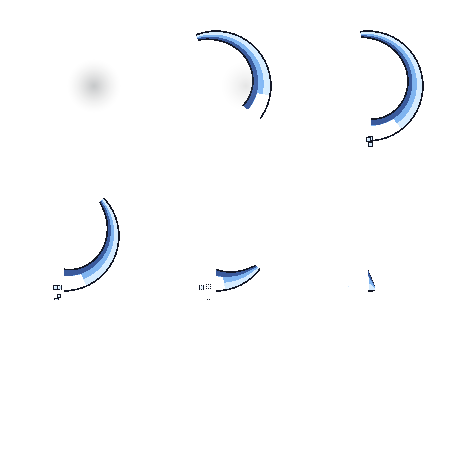
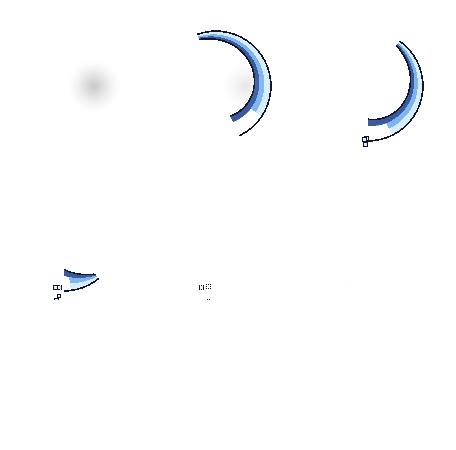
Chop first, then send the rift from where the blade lands (Claude r42)
User request: the cut should come down fast and the travelling effect should start from the
landing point. The slash crescent now finishes in 0.2 s, the rift starts 0.1 s in and one step
ahead of the swordsman towards the target. The review screen samples 0.2 s so both show.

diff --git a/Tools/PixelFX/fx/melee/eb-slash.js b/Tools/PixelFX/fx/melee/eb-slash.js
@@ -79,7 +79,7 @@ export function draw(p, t, o) {
     return;
   }
   // slash: one crescent from above the shoulder down across the front
-  const a0 = -Math.PI * 0.62, a1 = Math.PI * 0.5, lead = a0 + (a1 - a0) * ease.outCubic(clamp(t / 0.14)), tail = a0 + (a1 - a0) * ease.inOutQuad(clamp((t - 0.06) / 0.22));
+  const a0 = -Math.PI * 0.62, a1 = Math.PI * 0.5, lead = a0 + (a1 - a0) * ease.outCubic(clamp(t / 0.1)), tail = a0 + (a1 - a0) * ease.inOutQuad(clamp((t - 0.04) / 0.16));
   crescent(p, 0, 0, 54, 20, tail, lead, 1, C);
   chips(p, R, Math.cos(lead) * 54, Math.sin(lead) * 54, t, 0.06, 5, C, lead + Math.PI / 2);
   if (t < 0.08) p.glow(30, 0, 30, C[3], 0.3 * (1 - t / 0.08));

diff --git a/Assets/Scripts/Presentation/BattleView.AttackEffects.cs b/Assets/Scripts/Presentation/BattleView.AttackEffects.cs
@@ -7,7 +7,7 @@ namespace EmberBastion {
   readonly Dictionary<string,AttackSheet> attackSheets=new Dictionary<string,AttackSheet>();
   AttackSheet AttackFx(string name){AttackSheet sheet;if(attackSheets.TryGetValue(name,out sheet))return sheet;var tex=Resources.Load<Texture2D>("PixelFX/"+name);var json=Resources.Load<TextAsset>("PixelFX/"+name);sheet=tex==null||json==null?null:new AttackSheet{texture=tex,data=SheetReader.Read(json,tex)};attackSheets[name]=sheet;return sheet;}
   void AttackEffect(VisualCue v){
-   bool review=Debug.isDebugBuild&&Application.platform==RuntimePlatform.WebGLPlayer&&Application.absoluteURL.Contains("fx-smoke=attack-review");float age=review?.12f:v.Age;
+   bool review=Debug.isDebugBuild&&Application.platform==RuntimePlatform.WebGLPlayer&&Application.absoluteURL.Contains("fx-smoke=attack-review");float age=review?.2f:v.Age;
    if(age>.42f||v.Cue.Source<0||v.Cue.Source>3)return;
    // Dense battles keep short release flashes but skip late smoke/trails. No simulation or damage changes.
    if(battle.Enemies.Count>=70&&age>.18f)return;
@@ -18,7 +18,7 @@ namespace EmberBastion {
    if(review){Texture2D[] bodies={warriorIdle,archerIdle,pawnLevel[0],frostIdle};var body=bodies[kind];if(body!=null){int bodyFrame=(int)(Time.unscaledTime/.16f)%Mathf.Max(1,body.width/192);TerrainView.Image(body,new Rect(x-72,y-100,144,144),bodyFrame*192,0,192,192);}}
    if(kind!=0){x+=v.Cue.Facing*20;y-=18;}else y+=8;
    // Sword cuts also travel: ground streaks run from the swordsman towards the target (r42, user request). Display only.
-   if(kind==0&&age<.35f){var rift=AttackFx(branch==1?"SwordRiftWide":"SwordRift");if(rift!=null){float px=(float)v.Cue.Position.X,py=(float)v.Cue.Position.Y+14,tx=(float)v.Cue.Destination.X-px,ty=(float)v.Cue.Destination.Y-py;float angle=tx*tx+ty*ty<1?(v.Cue.Facing<0?180:0):Mathf.Atan2(ty,tx)*Mathf.Rad2Deg;int rf=Mathf.Min(rift.data.frames.Length-1,(int)(age/.35f*rift.data.frames.Length));var rr=rift.data.frames[rf].frame;var rp=rift.data.meta.pixelfx.pivot;float rk=1f;Matrix4x4 riftMatrix=GUI.matrix;Color riftColor=GUI.color;GUI.matrix=riftMatrix*Matrix4x4.TRS(new Vector3(px,py,0),Quaternion.Euler(0,0,angle),Vector3.one)*Matrix4x4.Translate(new Vector3(-px,-py,0));GUI.color=branch==1?new Color(.86f,.7f,1,riftColor.a):branch==2?new Color(1,.78f,.45f,riftColor.a):new Color(.75f,.9f,1,riftColor.a);TerrainView.Image(rift.texture,new Rect(px-rp[0]*rk,py-rp[1]*rk,rr.w*rk,rr.h*rk),rr.x,rr.y,rr.w,rr.h);GUI.color=riftColor;GUI.matrix=riftMatrix;}}
+   if(kind==0&&age>=.1f){var rift=AttackFx(branch==1?"SwordRiftWide":"SwordRift");if(rift!=null){float px=(float)v.Cue.Position.X,py=(float)v.Cue.Position.Y+14,tx=(float)v.Cue.Destination.X-px,ty=(float)v.Cue.Destination.Y-py;float angle=tx*tx+ty*ty<1?(v.Cue.Facing<0?180:0):Mathf.Atan2(ty,tx)*Mathf.Rad2Deg;px+=Mathf.Cos(angle*Mathf.Deg2Rad)*34;py+=Mathf.Sin(angle*Mathf.Deg2Rad)*34;int rf=Mathf.Min(rift.data.frames.Length-1,(int)((age-.1f)/.32f*rift.data.frames.Length));var rr=rift.data.frames[rf].frame;var rp=rift.data.meta.pixelfx.pivot;float rk=1f;Matrix4x4 riftMatrix=GUI.matrix;Color riftColor=GUI.color;GUI.matrix=riftMatrix*Matrix4x4.TRS(new Vector3(px,py,0),Quaternion.Euler(0,0,angle),Vector3.one)*Matrix4x4.Translate(new Vector3(-px,-py,0));GUI.color=branch==1?new Color(.86f,.7f,1,riftColor.a):branch==2?new Color(1,.78f,.45f,riftColor.a):new Color(.75f,.9f,1,riftColor.a);TerrainView.Image(rift.texture,new Rect(px-rp[0]*rk,py-rp[1]*rk,rr.w*rk,rr.h*rk),rr.x,rr.y,rr.w,rr.h);GUI.color=riftColor;GUI.matrix=riftMatrix;}}
    Color before=GUI.color;if(kind==2)GUI.color=new Color(1,.7f,.3f,before.a);else if(kind==1&&branch==2)GUI.color=new Color(1,.6f,.45f,before.a);else if(kind==3&&branch==2)GUI.color=new Color(.8f,.6f,1,before.a);
    Matrix4x4 matrix=GUI.matrix;if(v.Cue.Facing<0)GUIUtility.ScaleAroundPivot(new Vector2(-1,1),new Vector2(x,y));
    TerrainView.Image(sheet.texture,new Rect(x-pivot[0]*k,y-pivot[1]*k,r.w*k,r.h*k),r.x,r.y,r.w,r.h);
